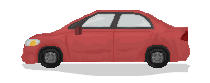
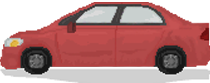
comit

diff --git a/20160923GameJam/Classes/Enemy.cpp b/20160923GameJam/Classes/Enemy.cpp
@@ -18,7 +18,7 @@ bool Enemy::init(b2World* world)
 	{
 		// Init GROUND type enemy
 		m_enemy = Sprite::create("PixelCar.png");
-		m_enemy->setScale(1.2f);
+		m_enemy->setScale(0.9f);
 		m_enemy->setPosition(Vec2((960 / 2) + 850, 220));
 	}
 
@@ -34,10 +34,7 @@ bool Enemy::init(b2World* world)
 			sprintf(str, "frame-%d.png", i);
 			m_birdFlyingFrames.pushBack(spriteCache->getSpriteFrameByName(str));
 		}
-		// Default BIRD type enemy animation
-		auto animation = Animation::createWithSpriteFrames(m_birdFlyingFrames, 0.07f);
-		m_flyingAnimation = Animate::create(animation);
-		m_flyingAnimation->setTag(1);
+
 
 		SpriteFrameCache::getInstance()->addSpriteFramesWithFile("chicken/flying/hit.plist");
 		for (int i = 0; i < 1; ++i)
@@ -46,10 +43,7 @@ bool Enemy::init(b2World* world)
 			sprintf(str, "frame-%d.png", i);
 			m_birdHitFrames.pushBack(spriteCache->getSpriteFrameByName(str));
 		}
-		// Activate this when a BIRD type enemy gets hit
-		animation = Animation::createWithSpriteFrames(m_birdHitFrames, 0.07f);
-		m_hitAnimation = Animate::create(animation);
-		m_hitAnimation->setTag(2);
+
 
 		m_enemy = Sprite::createWithSpriteFrame(m_birdFlyingFrames.front());
 		m_enemy->setScale(0.15f);
@@ -60,7 +54,8 @@ bool Enemy::init(b2World* world)
 		// Init JUMPING type enemy
 		m_enemy = Sprite::create("food.png");
 		m_enemy->setPosition(Vec2((960 / 2) + 850, 220));
-		m_enemy->setScale(0.225f);
+		//m_enemy->setScale(0.225f);
+		m_enemy->setScale(0.125f);
 	}
 
 	if (!m_enemy)
@@ -86,31 +81,39 @@ bool Enemy::init(b2World* world)
 	m_hitOnHead = false;
 	m_scheduledForRemoval = false;
 
-	// Set default enemy actions
-	if (m_type == EnemyData::GROUND)
-	{
-		// Init movement
-		auto actionMoveByenemy = MoveBy::create(2, Vec2(-1500, 0));
-		m_enemy->runAction(actionMoveByenemy);
-	}
-	if (m_type == EnemyData::JUMPING)
-	{
-		// Init movement
-		auto actionMoveByenemy = MoveBy::create(3, Vec2(-1500, 0));
-		m_enemy->runAction(actionMoveByenemy);
-	}
-	else if (m_type == EnemyData::FLYING)
-	{
-		// Init animation and movement
-		m_enemy->runAction(RepeatForever::create(m_flyingAnimation));
-		auto actionMoveByEnemy = MoveBy::create(5.0, Vec2(-1500, 0));
-		m_enemy->runAction(actionMoveByEnemy);
-	}
+	//// Set default enemy actions
+	//if (m_type == EnemyData::GROUND)
+	//{
+	//	// Init movement
+	//	auto actionMoveByenemy = MoveBy::create(2, Vec2(-1500, 0));
+	//	m_enemy->runAction(actionMoveByenemy);
+	//}
+	//if (m_type == EnemyData::JUMPING)
+	//{
+	//	// Init movement
+	//	auto actionMoveByenemy = MoveBy::create(3, Vec2(-1500, 0));
+	//	m_enemy->runAction(actionMoveByenemy);
+	//}
+	//else if (m_type == EnemyData::FLYING)
+	//{
+	//	// Init animation and movement
+	//	m_enemy->runAction(RepeatForever::create(m_flyingAnimation));
+	//	auto actionMoveByEnemy = MoveBy::create(5.0, Vec2(-1500, 0));
+	//	m_enemy->runAction(actionMoveByEnemy);
+	//}
 
 	this->addChild(m_enemy);
 
 	scheduleUpdate();
 
+	//if (StartSpawnEnemyFlag != false)
+	//{
+		this->schedule(schedule_selector(Enemy::SpawnEnemy), 1.0f);
+	//}
+	//if (StartSpawnEnemyFlag != true)
+	//{
+	//	this->schedule(schedule_selector(Enemy::SpawnEnemy), 2.0f);
+	//}
 
 	return true;
 }
@@ -136,6 +139,50 @@ void Enemy::update(float dt)
 	//{
 	//	  m_scheduledForRemoval = true;
 	//}
+
+
+}
+
+void Enemy::StartSpawnEnemy(float delta)
+{
+	//if (StartSpawnEnemyFlag != false)
+	//{
+	//	this->schedule(schedule_selector(Enemy::SpawnEnemy), 2.0f);
+	//}
+	//StartSpawnEnemyFlag = false;
+}
+
+void Enemy::SpawnEnemy(float delta)
+{
+
+	// Set default enemy actions
+	if (m_type == EnemyData::GROUND)
+	{
+		// Init movement
+		auto actionMoveByenemy = MoveBy::create(2, Vec2(-1500, 0));
+		m_enemy->runAction(actionMoveByenemy);
+	}
+	if (m_type == EnemyData::JUMPING)
+	{
+		// Init movement
+		auto actionMoveByenemy = MoveBy::create(3, Vec2(-1500, 0));
+		m_enemy->runAction(actionMoveByenemy);
+	}
+	else if (m_type == EnemyData::FLYING)
+	{
+		// Default BIRD type enemy animation
+		auto animation = Animation::createWithSpriteFrames(m_birdFlyingFrames, 0.07f);
+		m_flyingAnimation = Animate::create(animation);
+		m_flyingAnimation->setTag(1);
+		// Activate this when a BIRD type enemy gets hit
+		animation = Animation::createWithSpriteFrames(m_birdHitFrames, 0.07f);
+		m_hitAnimation = Animate::create(animation);
+		m_hitAnimation->setTag(2);
+		// Init animation and movement
+		m_enemy->runAction(RepeatForever::create(m_flyingAnimation));
+		auto actionMoveByEnemy = MoveBy::create(5.0, Vec2(-1500, 0));
+		m_enemy->runAction(actionMoveByEnemy);
+	}
 }
 
 Enemy* Enemy::create(b2World* world)

diff --git a/20160923GameJam/Classes/GameOverScene.h b/20160923GameJam/Classes/GameOverScene.h
@@ -3,6 +3,9 @@
 
 #include "cocos2d.h"
 #include "GLES-Render.h"
+#include "MainScene.h"
+#include "MenuScreenScene.h"
+//#include "cocos2d/cocos/ui/UIButton.h"
 
 class GameOverScene : public cocos2d::Layer
 {
@@ -19,7 +22,8 @@ public:
 
 	bool onTouchBegan(cocos2d::Touch * touch, cocos2d::Event *unused_event);
 
-	void menuCloseCallback(Ref * pSender);
+	void menuCloseCallback(cocos2d::Ref* pSender);
+	void menuCloseCallback2(cocos2d::Ref* pSender);
 
     // implement the "static create()" method manually
     CREATE_FUNC(GameOverScene);

diff --git a/20160923GameJam/Classes/Player.cpp b/20160923GameJam/Classes/Player.cpp
@@ -228,7 +228,7 @@ void Player::jump(bool flag)
 
 		b2Vec2 vel = m_pbPlayer->GetLinearVelocity();
 		float m = m_pbPlayer->GetMass();// the mass of the body
-		b2Vec2 desiredVel = b2Vec2(0, 23);// the vector speed you set
+		b2Vec2 desiredVel = b2Vec2(0, 28);// the vector speed you set
 		b2Vec2 velChange = desiredVel - vel;
 		b2Vec2 impluse = m * velChange; //impluse = mv
 		m_pbPlayer->ApplyLinearImpulse(impluse, m_pbPlayer->GetWorldCenter(),true);

diff --git a/20160923GameJam/Classes/Enemy.h b/20160923GameJam/Classes/Enemy.h
@@ -23,11 +23,15 @@ public:
 
 	bool m_hitOnHead; // TODO rename?
 	bool m_scheduledForRemoval;
+	bool StartSpawnEnemyFlag = true;
 
 	//static cocos2d::Scene* createScene();
 
 	virtual bool init(b2World* world);
 	void update(float dt)override;
+
+	void StartSpawnEnemy(float delta);
+	void SpawnEnemy(float delta);
 
 	static Enemy* create(b2World* world);
 };
